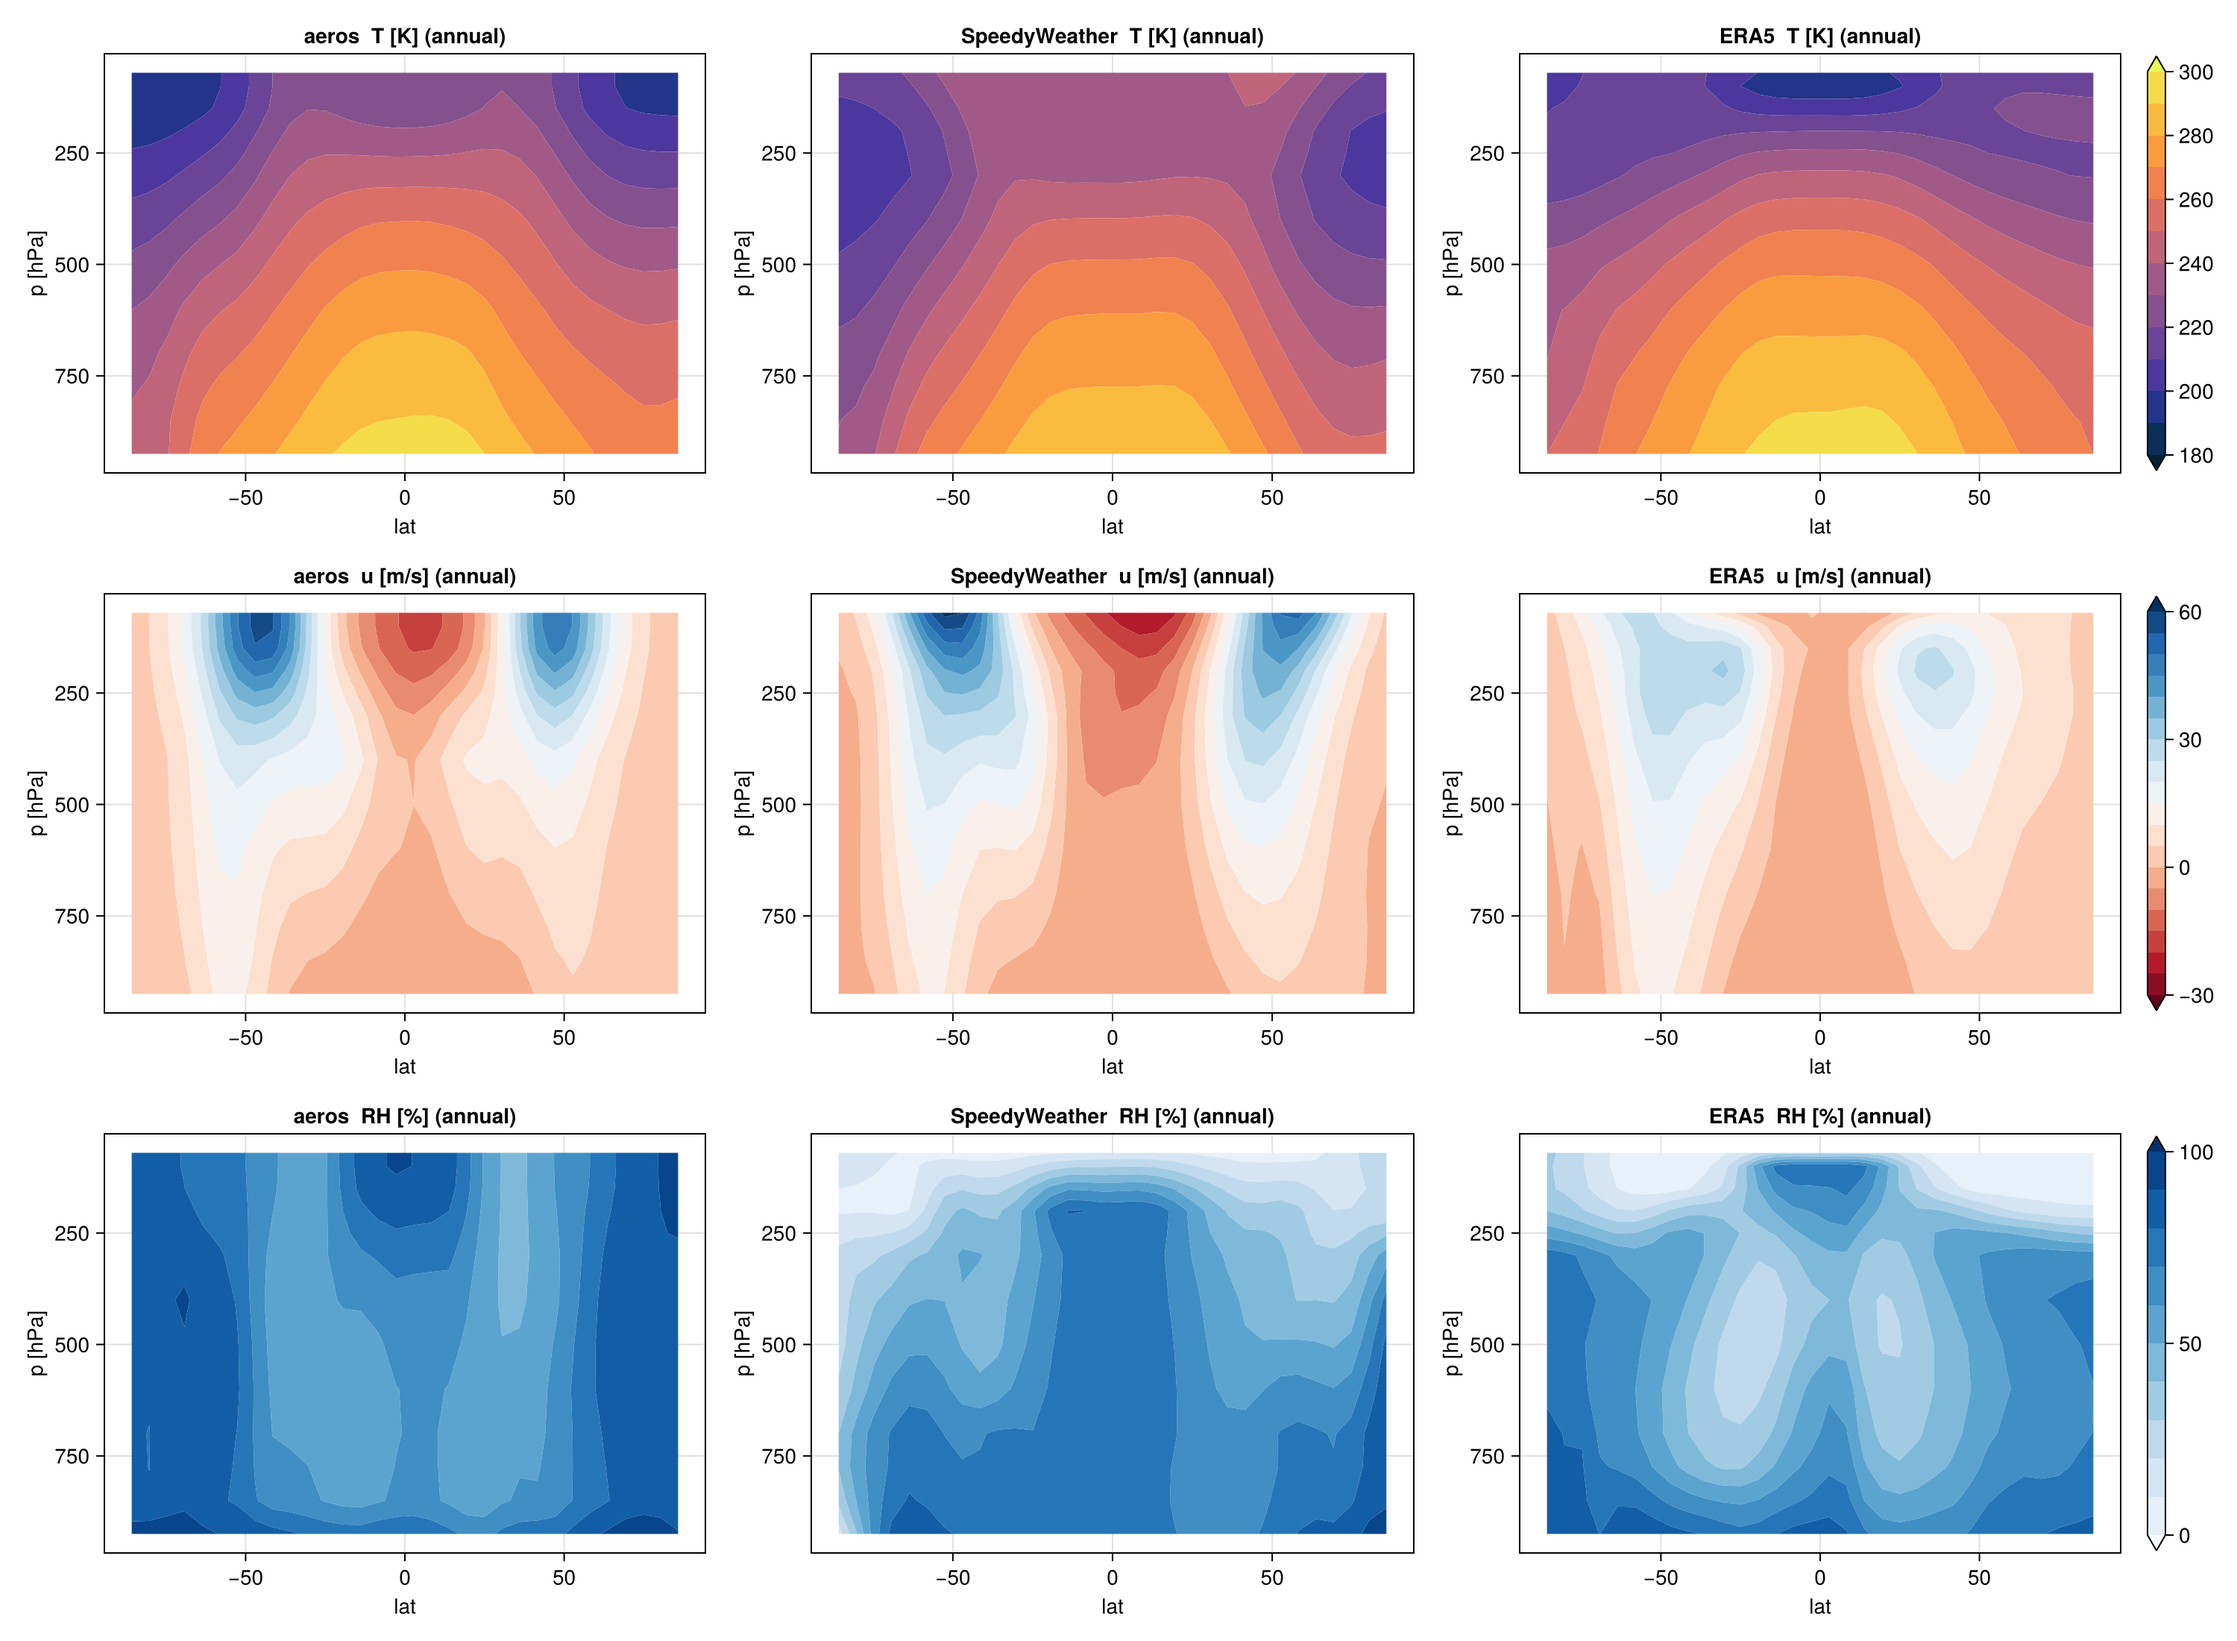
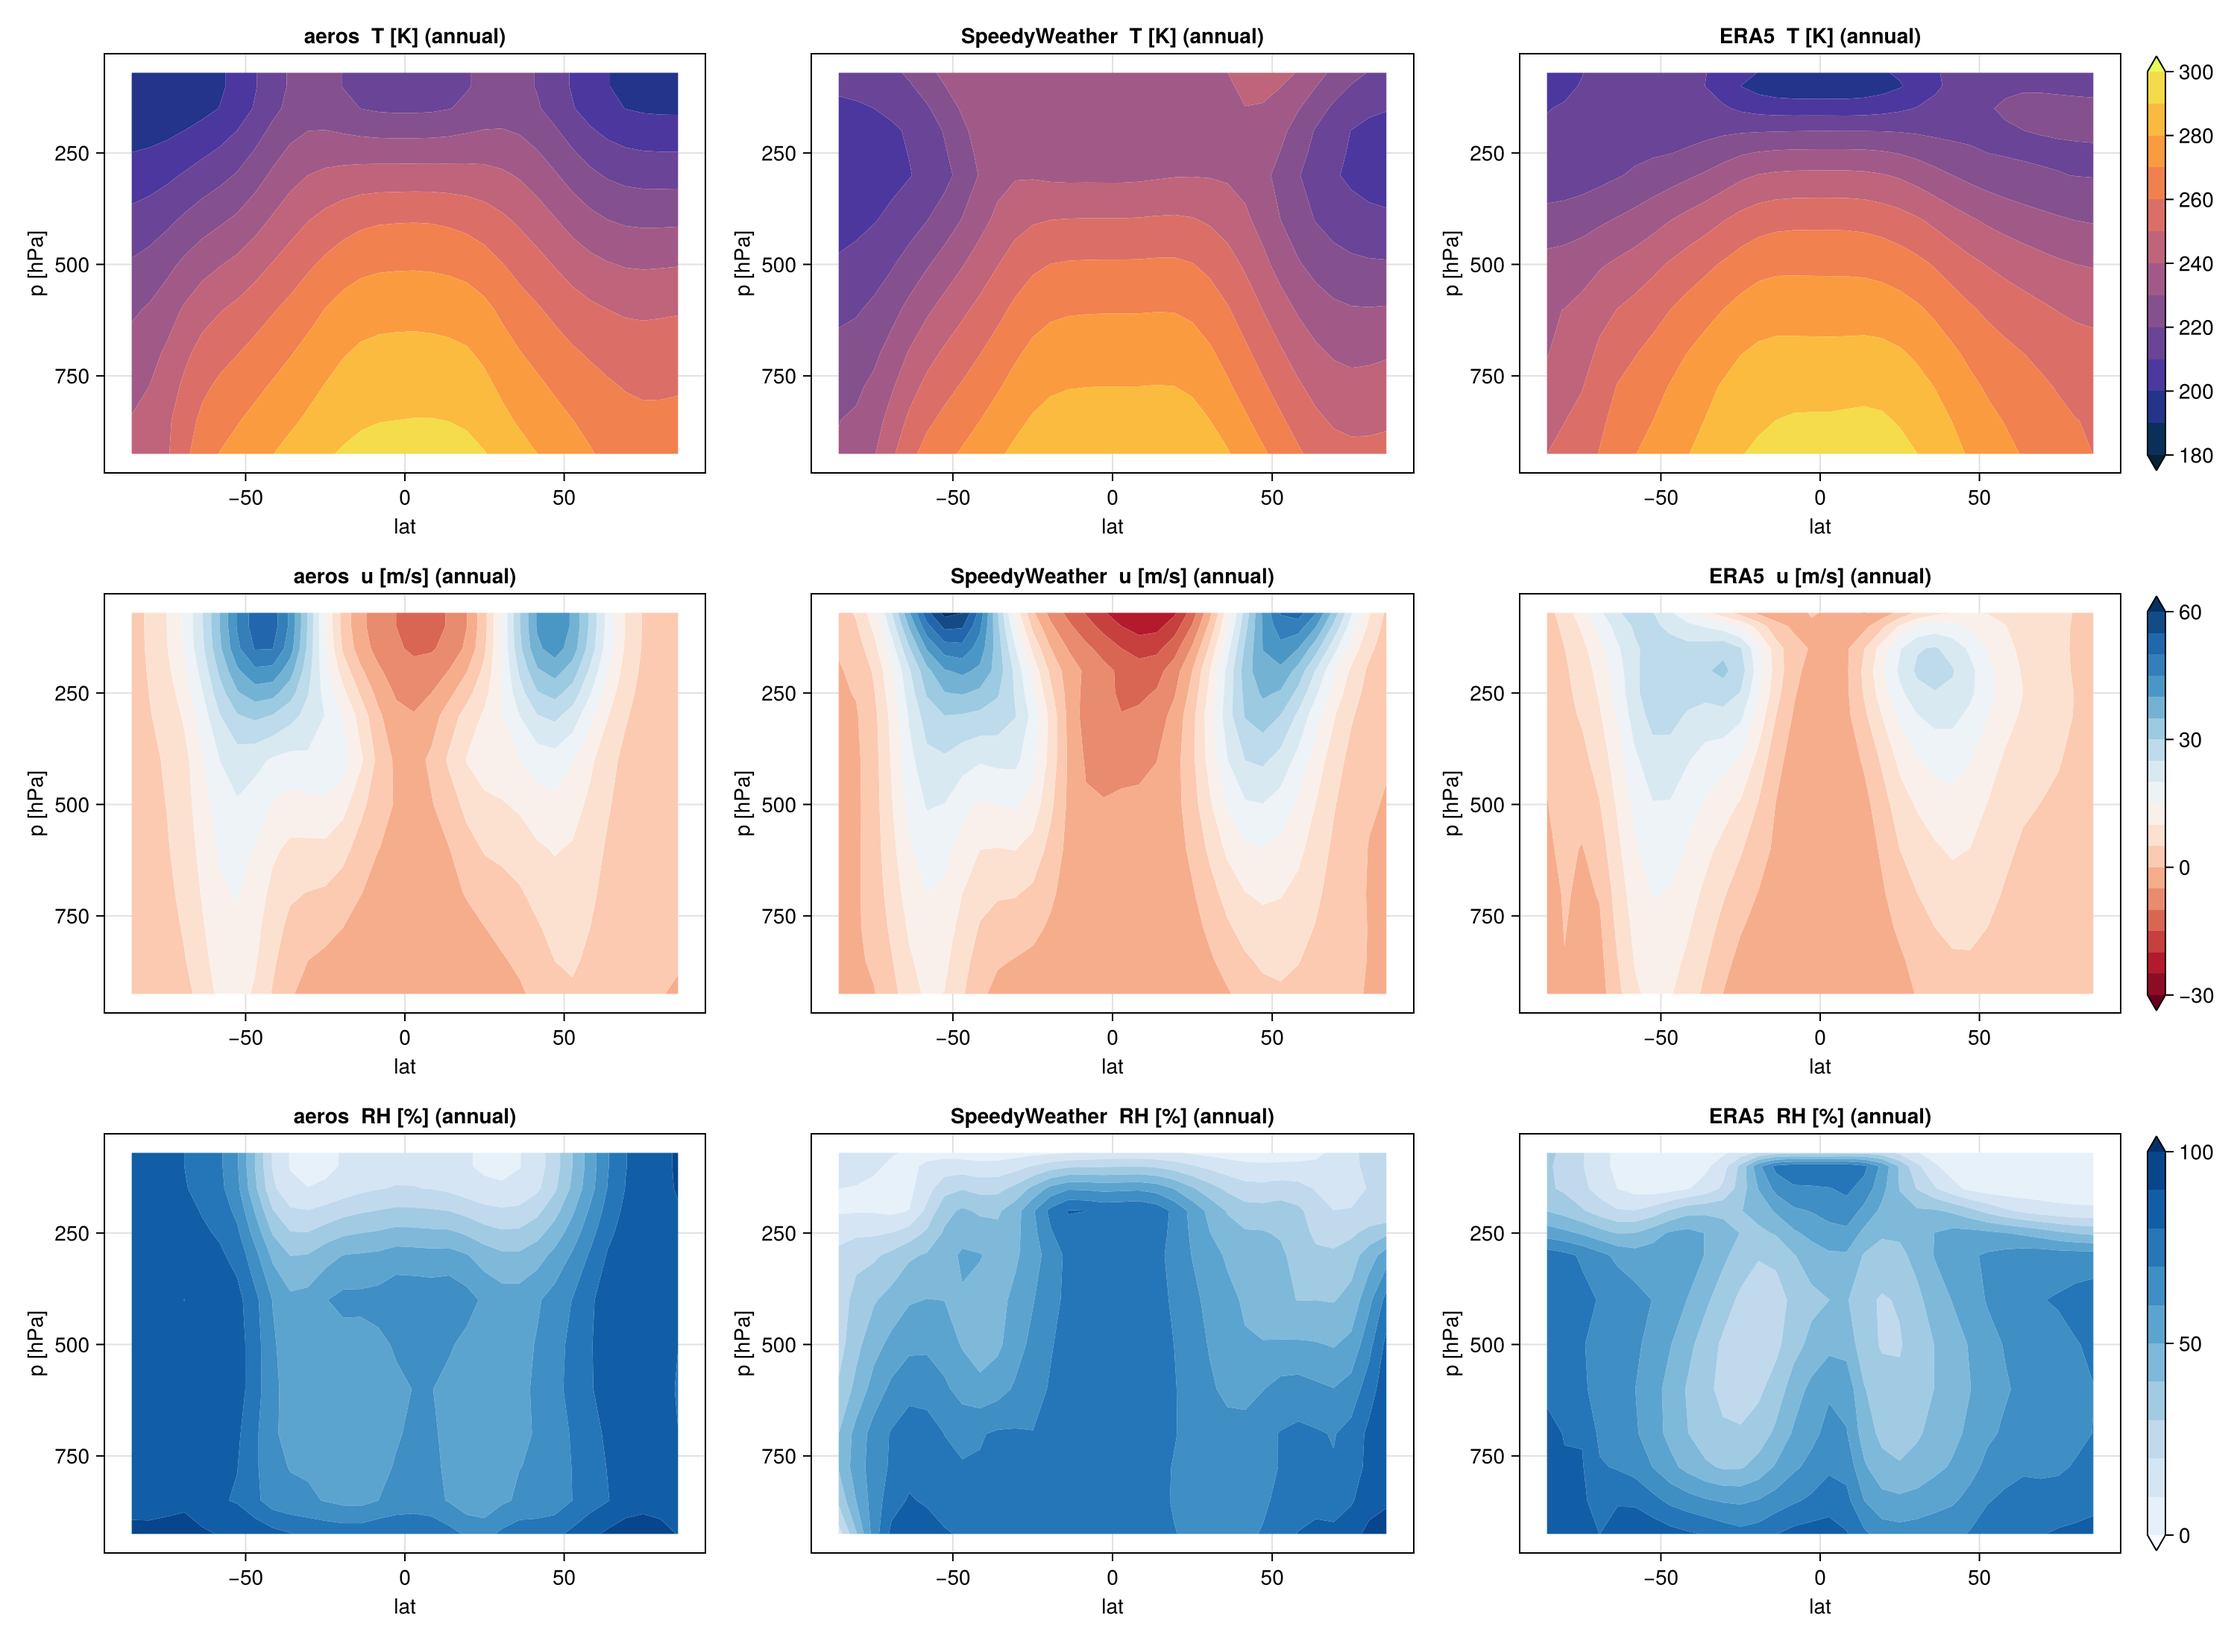
docs: 2026-09-08 climatology (warm 300 hPa halved, TOA -0.5, jet 52) and hand-off; rce_long dump carries q_vadv/q_dyn/q_vdiff; MMC-vs-ERA5 script

diff --git a/mwm/D_realearth/diag/mmc_vs_era5.py b/mwm/D_realearth/diag/mmc_vs_era5.py
@@ -1,0 +1,29 @@
+"""Zonal-mean omega [hPa/day] from continuity on the zonal-mean v: model (monthly v on sigma) vs ERA5 (v on p)."""
+import sys, numpy as np, netCDF4 as nc
+a=6.371e6; g=9.81
+E="/Users/alrobi001/data/era5/"
+f=nc.Dataset(E+"monthly-pressure-levels/era5_monthly-pressure-levels_v_1991-2020_clim.nc"); latE=f["latitude"][:]; pl=f["pressure_level"][:].astype(float); vE=f["v"][:].astype(float).mean(-1).mean(0)  # (plev,lat) annual
+if latE[0]>latE[-1]: latE=latE[::-1]; vE=vE[:,::-1]
+o=np.argsort(pl); pl=pl[o]; vE=vE[o]
+def omega_from_v(v, p, lat):   # v(p,lat), p increasing [hPa]; omega(p,lat) = -(1/(a cos)) d/dphi [cos * int_0^p v dp]
+    phi=np.deg2rad(lat); c=np.cos(phi)
+    V=np.zeros_like(v); 
+    for k in range(1,len(p)): V[k]=V[k-1]+0.5*(v[k]+v[k-1])*(p[k]-p[k-1])   # hPa m/s
+    om=-np.gradient(V*c[None,:], phi, axis=1)/(a*c[None,:])                   # hPa/s
+    return om*86400
+# remove the (small) mass-weighted mean of v so the streamfunction closes at the surface
+def clean(v,p): w=np.gradient(p); return v-(v*w[:,None]).sum(0)/w.sum()
+omE=omega_from_v(clean(vE,pl),pl,latE)
+A=nc.Dataset(sys.argv[1]); latA=A["lat"][:]; sig=A["lev"][:]; o=np.argsort(latA); latA=latA[o]; vA=A["v"][:].mean(0)[:,o]   # (lev,lat)
+pA=sig*1000.
+omA=omega_from_v(clean(vA,pA),pA,latA)
+print("annual zonal-mean omega [hPa/day] from [v] continuity; model rows at its sigma levels, ERA5 interpolated to the same p")
+bands=[("60-75S",-75,-60),("45-60S",-60,-45),("30-45S",-45,-30),("15-30S",-30,-15),("15S-15N",-15,15),("15-30N",15,30),("30-45N",30,45),("45-60N",45,60),("60-75N",60,75)]
+print("sigma   "+"".join(f"{b[0]:>12s}" for b in bands))
+w=np.cos(np.deg2rad(latA))
+for k in range(len(sig)):
+    e=np.array([np.interp(pA[k],pl,omE[:,j]) for j in range(len(latE))]); e=np.interp(latA,latE,e)
+    row=[]
+    for _,lo,hi in bands:
+        m=(latA>=lo)&(latA<=hi); row.append(f"{(omA[k][m]*w[m]).sum()/w[m].sum():5.1f}/{(e[m]*w[m]).sum()/w[m].sum():<5.1f}")
+    print(f"{sig[k]:.3f}  "+" ".join(row))

diff --git a/mwm/D_realearth/diag/tbias_vs_era5.py b/mwm/D_realearth/diag/tbias_vs_era5.py
@@ -56,7 +56,8 @@ for nm,ms in seas.items():
 if len(sys.argv)>2:
     Z=nc.Dataset(sys.argv[2]); latZ=Z["lat"][:]; o=np.argsort(latZ)
     print("\n== per-process heating [K/day], 2nd-half time mean, zonal mean (dump), plus omega [hPa/day]")
-    for v in ["q_cnv","q_cnd","q_rad","q_surf","q_net","omega","t","q","rh","pfull"]:
+    for v in ["q_cnv","q_cnd","q_rad","q_vdiff","q_net","q_vadv","q_dyn","omega","t","q","rh","pfull"]:
+        if v not in Z.variables: continue
         x=Z[v][:]; x = x if x.shape[0]==len(latZ) else x.T   # (lat,lev)
         x=x[o]; print(v); print("sigma   "+"".join(f"{b[0]:>11s}" for b in bands))
         for k in range(len(sig)):

diff --git a/docs/m2_handoff.md b/docs/m2_handoff.md
@@ -1,6 +1,30 @@
 # M2 handoff — where to pick up
 
-## ►► NEXT SESSION (written 2026-09-07): state, what changed, and what to do
+## ►► NEXT SESSION (written 2026-09-07, updated 2026-09-08): state, what changed, and what to do
+
+### Update 2026-09-08: deficit 0 (warm 300 hPa) half explained — two lid radiative effects
+
+Sensitivity runs (all 3 yr, `mwm/D_realearth/diag/`, `summary.sh`): the warm σ 0.365 band is robust
+to nlev (L12: +7–9 K at 200–310 hPa), ozone (1 K), `cond_rh_crit`, `conv_tau`, `conv_rh_ref` (0.45:
+W 25 → 21 mm, band unchanged), clouds, and the LW scheme (SESAM +9.3). Its budget (dump now carries
+`q_vadv`, `q_dyn`, `q_vdiff`) is a radiative–subsidence equilibrium: rad −1.14 K/day vs subsidence
++0.85, moist +0.5, eddies −0.2. The MMC is not the cause: Hadley ~half of ERA5, no Ferrel cell
+(`mmc_vs_era5.py`). Two lid effects are (each verified by a scratch test, then implemented):
+1. **Near-IR H2O absorption distributed on a pressure-scaled path** (bb6ac9c): the 2-exponential's
+   strong term was spent in the first ~1.6 kg/m² of vapour from the top (unscaled slant path) —
+   the lid in the tropics, ~350 hPa in the subtropics. Column totals unchanged (validate_era5
+   identical). Subtropical lid −4 K, σ 0.365 −1.3 K.
+2. **Lid cold trap** (b25f96e, `cond_lid_q_max = 1e-5` kg/kg in `&rce`, `lid_q_max` in
+   `aeros_moisture`): the top layer condenses whatever exceeds 0.01 g/kg (it held 10× ERA5's vapour
+   at its ~220 K layer-mean saturation and blanketed the layer below; σ 0.365 cooling −1.2 →
+   −1.5 K/day). Excess falls as precipitation; `test_condensation` check 5.
+Result (`docs/refs/realearth_metrics_2026-09-08_L6.md`): σ 0.365 at 30–45N +7.7 → +4.5 K, lid
++17 → +11, tropics +3.0; TOA −0.5 with the unchanged clouds (no re-balance needed), CRE −54/+19,
+P 3.2, W 24.7; jet 57 → 52 m/s, Z500* 85 m, t2m amplitude 32.7 (33.6). The remaining +4.5 / +3.0
+at σ 0.365 is unexplained: not moist physics, not the MMC, not the radiation scheme; candidates are
+the stratosphere/lid representation (polar lid −20 to −29 K, no Brewer–Dobson warming; the level-2
+subsidence warming uses the stability across the lid) and the eddy-driven circulation (missing Ferrel
+cell). 26/26 tests (`test_ecckd` SESAM guard loosened to 10 %, 4c173f8).
 
 ### Where the model is
 
@@ -81,9 +105,9 @@ reference, not the model.
 ### Known deficits, in the order to attack them (as of the evening; deficit 1 below is RESOLVED
 except for its 300 hPa part — see the evening update)
 
-0. **Warm σ 0.365 / cold 0.56–0.86 outside the tropics** (annual +7.7 at 30–45N over −3.5/−4.2 at
-   30–45S; tropics +3.6 at 0.365): the 360–560 hPa layer is too stable (dT/dlnp 33–38 vs ERA5
-   45–51). Static-stability structure; grew with the warming. Next.
+0. **Warm σ 0.365 outside the tropics** — half resolved 2026-09-08 (see the update above): now
+   +4.5 at 30–45N, +3.0 tropics, over −4 at 30–45S 0.56–0.73. Remaining candidates: lid /
+   stratosphere representation, eddy-driven circulation (no Ferrel cell).
 1. **~~Cold lower troposphere~~ / warm 300 hPa.** (Cold part resolved 2026-09-07 evening.) 700–850 hPa is 3–7 K cold at all latitudes and
    seasons, 300 hPa 5–8 K warm outside the tropics (annual, `docs/refs/..._2026-09-07_L6.md`).
    Not vertical resolution (L8/L12 identical at dt 1800), not the boundary layer, and only 1 K

diff --git a/docs/refs/realearth_metrics_2026-09-08_L6.md b/docs/refs/realearth_metrics_2026-09-08_L6.md
@@ -1,0 +1,32 @@
+# aeros vs SpeedyWeather vs ERA5, real-Earth T21 (aeros L6, 2026-09-08: pressure-scaled near-IR distribution + lid cold trap)
+
+aeros 3 yr (2 yr spin-up + 1 yr monthly), dt = 3600, 2694 SYPD (101 s). Commits bb6ac9c (ecCKD near-IR distributed on a pressure-scaled path) and b25f96e (lid cold trap, `cond_lid_q_max = 1e-5`) on top of the 2026-09-07 evening state (`..._2026-09-07_L6_surface.md`); clouds unchanged (`cld_rhc_top 1.03`, `cld_lwc 0.031e-3`).
+
+Year-3 global means: TOA net −0.5 W/m², OLR 237.8 (ERA5 242), clear-sky OLR 256.9 (264), CRE SW −53.9 / LW +19.1 (−46 / +22), cover 0.57 (0.63), P = E = 3.21 mm/day (2.9), LH 93 (84; ocean 110 / land 52 vs 101 / 41), SH 15.9 (17), column water 24.7 mm (24.5). Lid vapour 0.01–0.02 g/kg (was 0.13–0.14; ERA5 0.00–0.01).
+
+Zonal T bias vs ERA5 at the same pressure (annual, K; bands 60–75S / 30–45S / 15S–15N / 30–45N / 45–60N / 60–75N):
+
+```
+sigma        60-75S     30-45S    15S-15N     30-45N     45-60N     60-75N
+0.134        -20.3        7.8       15.2       11.3       -9.1      -21.8
+0.365         -3.0        0.4        3.0        4.5        0.2       -2.4
+0.563         -1.8       -4.0        1.4       -0.9       -2.4       -1.5
+0.728         -0.9       -4.2       -0.3       -2.7       -2.3       -1.0
+0.860          0.3       -1.9       -1.0       -2.7       -1.4       -0.6
+0.959         -0.3       -0.8        0.3       -1.0       -0.7       -0.2
+```
+
+σ 0.365 at 30–45N +4.5 (was +7.7 the evening before; near-IR distribution −1.3, lid trap −2); lid 30–45N +11 (was +17); tropics +3.0 at σ 0.365, within 1.5 K below. DJF 69N-band −3.2/−2.0/−2.1/−2.3/−2.1 at σ 0.36–0.96.
+
+aeros: `mwm/D_realearth/output/aeros_realearth_T21L6.nc` · SW: `mwm/D_realearth/output/sw_realearth_T21L8.nc`
+
+| metric | aeros | SpeedyWeather | ERA5 |
+|---|---|---|---|
+| global-mean precip [mm/day] | 3.2 | 3.3 | 2.9 |
+| global-mean T, top level / 70 hPa [K] | 213.9 | 235.2 | 206.6 |
+| global-mean T, lowest level / 2 m [K] | 285.0 | 278.3 | 287.5 |
+| max annual zonal-mean u [m/s] | 52.4 | 63.0 | 33.7 |
+| max annual [u] at 200 hPa [m/s] | 44.0 | 41.2 | 31.3 |
+| DJF NH Z500* RMS 20-80N [m] | 84.6 | 68.3 | 76.1 |
+| t2m |Jul-Jan|, NH 40-70N land [K] | 32.7 | 29.2 | 33.6 |
+| throughput [SYPD, 10 threads] | 2694.1 | 708.7 | NaN |
